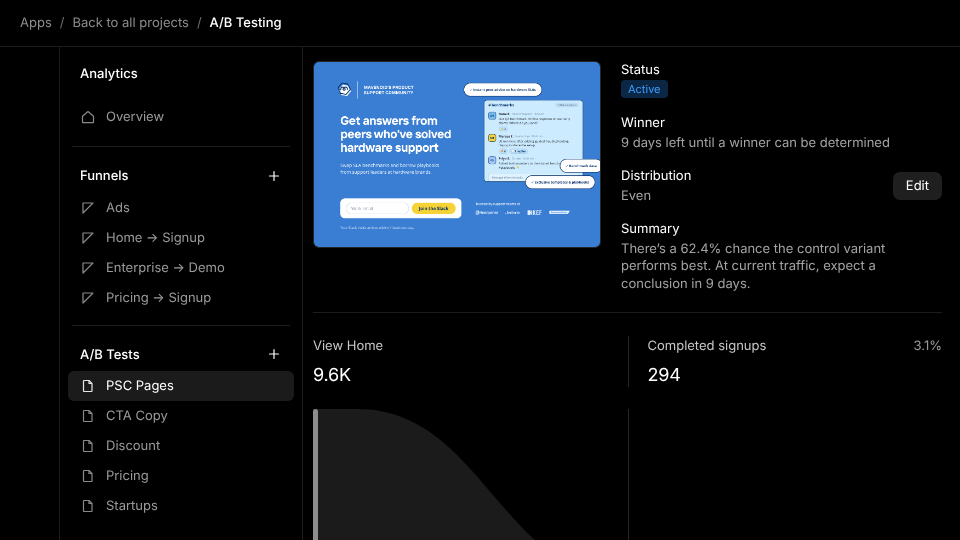
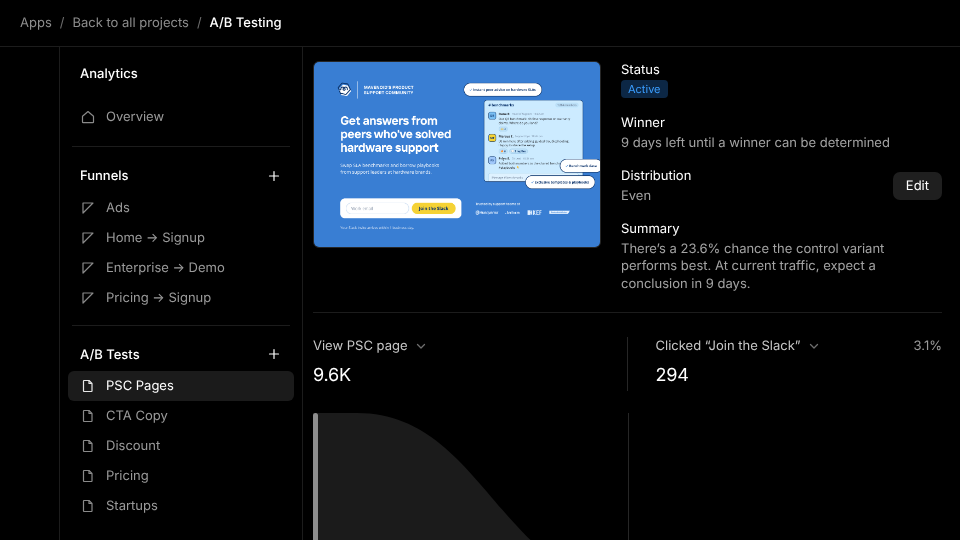
A/B module: interactive funnel and variants, add third PSC variant
- Funnel is contextual: View PSC page -> clicks on each page's real CTA
  (Join the Slack / Book my demo) instead of 'Start for free'
- Control and variant rows select the variant: preview, funnel and summary update
- Funnel steps and chart are clickable and open a per-variant breakdown
- Add Variant B (Figma 155:3796) with its hero render

Claude-Session: https://claude.ai/code/session_01AHeBdxC35NxioYQrNYctji

diff --git a/ab-testing/index.html b/ab-testing/index.html
@@ -90,6 +90,39 @@ hr.rule{border:0;border-top:1px solid var(--line)}
 .tbl td:last-child{padding-right:0}
 .tbl .w1{width:15%}.tbl .w2{width:15%}.tbl .w3{width:19%}.tbl .w4{width:15%}.tbl .w5{width:15%}
 
+
+/* ---------- Interactive funnel + variants ---------- */
+button.fcol{display:block;width:100%;text-align:left;border-radius:6px;padding-bottom:4px;transition:background .15s}
+.fcol.step:hover,.fcol.step[aria-expanded="true"]{background:#0f0f0f}
+.fcol.step:focus-visible,.tbl tbody tr:focus-visible,.bd-row:focus-visible{outline:1px solid #4a4a4a;outline-offset:2px}
+.fcols{margin:0 -8px 0 -8px}
+.fcols::after{display:none}
+.fcols{background:linear-gradient(var(--line-2),var(--line-2)) 50% 0/1px 100% no-repeat}
+.fcol{padding-left:8px!important;padding-right:8px}
+.fcol + .fcol{padding-left:28px!important}
+.chev{width:14px;height:14px;margin-left:6px;color:var(--dim);transition:transform .15s}
+.fcol.step[aria-expanded="true"] .chev{transform:rotate(180deg);color:#fff}
+.fhead .lbl{display:inline-flex;align-items:center}
+.fhead .right{display:inline-flex;align-items:baseline;gap:6px}
+.chart{cursor:pointer}
+.chart:hover .bar{background:#a8a8a8}
+.breakdown{margin-top:18px;border-top:1px solid var(--line);padding-top:6px}
+.breakdown[hidden]{display:none}
+.bd-title{color:var(--muted);font-size:12px;padding:10px 0 4px}
+.bd-row{display:grid;grid-template-columns:150px minmax(0,1fr) 64px;align-items:center;gap:14px;width:100%;height:34px;padding:0 6px;border-radius:6px;color:#8f8f8f}
+.bd-row:hover,.bd-row.sel{color:#fff;background:#0f0f0f}
+.bd-name{display:inline-flex;align-items:center;gap:10px;white-space:nowrap}
+.bd-track{height:6px;border-radius:3px;background:#151515;overflow:hidden}
+.bd-fill{display:block;height:100%;border-radius:3px;transition:width .3s}
+.bd-val{text-align:right;font-variant-numeric:tabular-nums}
+.sub{color:var(--dim);margin-left:10px;font-size:12px}
+.tbl tbody tr.sel .sub{color:var(--muted)}
+.preview img{transition:opacity .25s}
+@media (max-width:820px){
+  .sub,.pre{display:none}
+  .bd-row{grid-template-columns:110px minmax(0,1fr) 52px;gap:10px}
+}
+
 /* ---------- Mobile ---------- */
 .tabs{display:none}
 @media (max-width:820px){
@@ -160,16 +193,13 @@ hr.rule{border:0;border-top:1px solid var(--line)}
 
   <main>
     <section class="top">
-      <div class="preview" aria-live="polite">
-        <img id="img-control" class="on" src="variant-b.png" alt="Control: Mavenoid Product Support Community page, Variant B with community proof and a role field" width="1124" height="675">
-        <img id="img-variant" src="variant-e.png" alt="Variant: Mavenoid Product Support Community page, Variant E with a color-block hero" width="1124" height="715">
-      </div>
+      <div class="preview" id="preview" aria-live="polite"></div>
       <dl class="details">
         <div class="full"><dt>Status</dt><dd><span class="badge">Active</span></dd></div>
         <div class="full"><dt>Winner</dt><dd>9 days left until a winner can be determined</dd></div>
         <div class="dist-copy"><dt>Distribution</dt><dd>Even</dd></div>
         <button class="edit" type="button">Edit</button>
-        <div class="full"><dt>Summary</dt><dd>There’s a 62.4% chance the control variant performs best. At current traffic, expect a conclusion in 9 days.</dd></div>
+        <div class="full"><dt>Summary</dt><dd id="summary"></dd></div>
       </dl>
     </section>
 
@@ -177,16 +207,16 @@ hr.rule{border:0;border-top:1px solid var(--line)}
 
     <section class="funnel" aria-label="Funnel">
       <div class="fcols">
-        <div class="fcol">
-          <div class="fhead"><span>View Home</span></div>
-          <div class="fval">9.6K</div>
-        </div>
-        <div class="fcol">
-          <div class="fhead"><span><span class="l-d">Completed signups</span><span class="l-m">Start for free</span></span><span class="pct">3.1%</span></div>
-          <div class="fval">294</div>
-        </div>
+        <button class="fcol step" type="button" data-step="views" aria-expanded="false" aria-controls="breakdown">
+          <div class="fhead"><span class="lbl">View PSC page<svg class="chev" viewBox="0 0 14 14" fill="none" stroke="currentColor" stroke-width="1.3" stroke-linecap="round" stroke-linejoin="round"><path d="M3.5 5.5 7 9l3.5-3.5"/></svg></span></div>
+          <div class="fval" id="f-views"></div>
+        </button>
+        <button class="fcol step" type="button" data-step="clicks" aria-expanded="false" aria-controls="breakdown">
+          <div class="fhead"><span class="lbl"><span class="pre">Clicked&nbsp;</span><span id="f-label"></span><svg class="chev" viewBox="0 0 14 14" fill="none" stroke="currentColor" stroke-width="1.3" stroke-linecap="round" stroke-linejoin="round"><path d="M3.5 5.5 7 9l3.5-3.5"/></svg></span><span class="pct" id="f-pct"></span></div>
+          <div class="fval" id="f-clicks"></div>
+        </button>
       </div>
-      <div class="chart" role="img" aria-label="Funnel chart: 9.6K home views dropping to 294 signups, 3.1% conversion">
+      <div class="chart" id="chart" role="button" tabindex="0" aria-label="Funnel chart. Activate to compare all variants at this step">
         <div class="bar"></div>
         <svg viewBox="0 0 1000 178" preserveAspectRatio="none" aria-hidden="true">
           <path d="M0 0 H70 C270 0 300 170 500 170 H1000 V178 H0 Z" fill="var(--area)"/>
@@ -195,6 +225,10 @@ hr.rule{border:0;border-top:1px solid var(--line)}
         <div class="dot"></div>
         <div style="position:absolute;left:50%;top:0;bottom:0;width:1px;background:var(--line-2)"></div>
       </div>
+      <div class="breakdown" id="breakdown" hidden>
+        <div class="bd-title" id="bd-title"></div>
+        <div id="bd-rows"></div>
+      </div>
     </section>
 
     <hr class="rule" style="margin-top:20px">
@@ -202,38 +236,107 @@ hr.rule{border:0;border-top:1px solid var(--line)}
     <table class="tbl">
       <colgroup><col><col class="w1"><col class="w2"><col class="w3"><col class="w4"><col class="w5"></colgroup>
       <thead>
-        <tr><th>Variant</th><th>Views</th><th><span class="l-d">Signups</span><span class="l-m">Events</span></th><th>Conversion</th><th>Lift</th><th>Best</th></tr>
+        <tr><th>Variant</th><th>Views</th><th>Clicks</th><th>Conversion</th><th>Lift</th><th>Best</th></tr>
       </thead>
-      <tbody>
-        <tr class="sel" data-variant="control" tabindex="0">
-          <td><span class="v"><i class="dotc" style="background:var(--control)"></i>Control</span></td>
-          <td>9,619</td><td>294</td><td>3.1%</td><td>—</td><td>62.4%</td>
-        </tr>
-        <tr data-variant="variant" tabindex="0">
-          <td><span class="v"><i class="dotc" style="background:var(--variant)"></i>Variant</span></td>
-          <td>9,409</td><td>255</td><td>2.7%</td><td>-11.3%</td><td>37.6%</td>
-        </tr>
-      </tbody>
+      <tbody id="rows"></tbody>
     </table>
   </main>
 </div>
 
 <script>
 (function(){
-  var rows=[].slice.call(document.querySelectorAll('.tbl tbody tr'));
-  var imgs={control:document.getElementById('img-control'),variant:document.getElementById('img-variant')};
-  function pick(r){
-    rows.forEach(function(x){x.classList.toggle('sel',x===r)});
-    var k=r.getAttribute('data-variant');
-    Object.keys(imgs).forEach(function(n){imgs[n].classList.toggle('on',n===k)});
-  }
-  rows.forEach(function(r){
-    r.addEventListener('click',function(){pick(r)});
-    r.addEventListener('keydown',function(e){if(e.key==='Enter'||e.key===' '){e.preventDefault();pick(r)}});
+  // Variants are the Figma PSC pages. CTA labels come from each design.
+  var V=[
+    {id:'control',name:'Control',sub:'Community proof + role field',color:'#8c8c8c',img:'variant-b.png',w:1124,h:675,cta:'Join the Slack',views:9619,clicks:294},
+    {id:'a',name:'Variant A',sub:'Color-block hero',color:'#8b5cf6',img:'variant-e.png',w:1124,h:715,cta:'Book my demo',views:9409,clicks:255},
+    {id:'b',name:'Variant B',sub:'Slack screenshot hero',color:'#3ecf8e',img:'variant-c.png',w:1124,h:606,cta:'Join the Slack',views:9512,clicks:308}
+  ];
+  var $=function(i){return document.getElementById(i)};
+  var fmtK=function(n){return n>=1000?(n/1000).toFixed(1)+'K':String(n)};
+  var fmtN=function(n){return n.toLocaleString('en-US')};
+  var cr=function(v){return v.clicks/v.views};
+
+  // Chance each variant is best: seeded Monte Carlo over each conversion rate (normal approx. to the posterior).
+  (function(){
+    var seed=20230520;function rnd(){seed|=0;seed=seed+0x6D2B79F5|0;var t=Math.imul(seed^seed>>>15,1|seed);t=t+Math.imul(t^t>>>7,61|t)^t;return((t^t>>>14)>>>0)/4294967296}
+    function norm(){return Math.sqrt(-2*Math.log(1-rnd()))*Math.cos(2*Math.PI*rnd())}
+    var wins=V.map(function(){return 0}),N=20000;
+    for(var i=0;i<N;i++){var best=-1,bv=-1;V.forEach(function(v,k){var p=cr(v),x=p+norm()*Math.sqrt(p*(1-p)/v.views);if(x>bv){bv=x;best=k}});wins[best]++}
+    var tot=0;V.forEach(function(v,k){v.best=Math.round(wins[k]/N*1000)/10;tot+=v.best});
+    var lead=wins.indexOf(Math.max.apply(null,wins));V[lead].best=Math.round((V[lead].best+100-tot)*10)/10;
+  })();
+
+  var sel=V[0],step=null;
+
+  // Preview images (one per variant, cross-fade)
+  var pv=$('preview');
+  V.forEach(function(v){
+    var im=new Image();im.src=v.img;im.width=v.w;im.height=v.h;im.id='img-'+v.id;
+    im.alt=v.name+': Mavenoid Product Support Community page, '+v.sub;
+    pv.appendChild(im);
   });
+
+  // Table rows
+  var tb=$('rows');
+  V.forEach(function(v){
+    var lift=v===V[0]?'—':((cr(v)-cr(V[0]))/cr(V[0])*100);
+    var liftTxt=typeof lift==='number'?(lift>0?'+':'')+lift.toFixed(1)+'%':lift;
+    var tr=document.createElement('tr');
+    tr.tabIndex=0;tr.setAttribute('role','button');tr.dataset.id=v.id;
+    tr.innerHTML='<td><span class="v"><i class="dotc" style="background:'+v.color+'"></i>'+v.name+'<span class="sub">'+v.sub+'</span></span></td>'+
+      '<td>'+fmtN(v.views)+'</td><td>'+fmtN(v.clicks)+'</td><td>'+(cr(v)*100).toFixed(1)+'%</td><td>'+liftTxt+'</td><td>'+v.best.toFixed(1)+'%</td>';
+    tr.addEventListener('click',function(){pick(v)});
+    tr.addEventListener('keydown',function(e){if(e.key==='Enter'||e.key===' '){e.preventDefault();pick(v)}});
+    tb.appendChild(tr);
+  });
+
+  function renderBreakdown(){
+    var bd=$('breakdown');
+    if(!step){bd.hidden=true;return}
+    bd.hidden=false;
+    var key=step==='views'?'views':'clicks';
+    $('bd-title').textContent=step==='views'?'Views by variant':'CTA clicks by variant';
+    var max=Math.max.apply(null,V.map(function(v){return v[key]}));
+    var box=$('bd-rows');box.innerHTML='';
+    V.forEach(function(v){
+      var b=document.createElement('button');b.type='button';b.className='bd-row'+(v===sel?' sel':'');
+      var val=step==='views'?fmtN(v.views):fmtN(v.clicks)+' · '+(cr(v)*100).toFixed(1)+'%';
+      b.innerHTML='<span class="bd-name"><i class="dotc" style="background:'+v.color+'"></i>'+v.name+'</span>'+
+        '<span class="bd-track"><span class="bd-fill" style="width:'+(v[key]/max*100)+'%;background:'+v.color+'"></span></span>'+
+        '<span class="bd-val">'+(step==='views'?fmtK(v.views):fmtN(v.clicks))+'</span>';
+      b.title=val;
+      b.addEventListener('click',function(){pick(v)});
+      box.appendChild(b);
+    });
+  }
+
+  function pick(v){
+    sel=v;
+    [].forEach.call(tb.children,function(r){var on=r.dataset.id===v.id;r.classList.toggle('sel',on);r.setAttribute('aria-pressed',on)});
+    V.forEach(function(x){$('img-'+x.id).style.opacity=x===v?1:0});
+    $('f-views').textContent=fmtK(v.views);
+    $('f-clicks').textContent=fmtN(v.clicks);
+    $('f-label').textContent='“'+v.cta+'”';
+    $('f-pct').textContent=(cr(v)*100).toFixed(1)+'%';
+    $('chart').setAttribute('role','button');
+    $('summary').textContent='There’s a '+v.best.toFixed(1)+'% chance '+(v===V[0]?'the control variant':v.name)+' performs best. At current traffic, expect a conclusion in 9 days.';
+    renderBreakdown();
+  }
+
+  function toggleStep(s){step=(step===s)?null:s;
+    [].forEach.call(document.querySelectorAll('.fcol.step'),function(b){b.setAttribute('aria-expanded',b.dataset.step===step)});
+    renderBreakdown();
+  }
+  [].forEach.call(document.querySelectorAll('.fcol.step'),function(b){b.addEventListener('click',function(){toggleStep(b.dataset.step)})});
+  var ch=$('chart');
+  ch.addEventListener('click',function(e){var r=ch.getBoundingClientRect();toggleStep(e.clientX-r.left<r.width/2?'views':'clicks')});
+  ch.addEventListener('keydown',function(e){if(e.key==='Enter'||e.key===' '){e.preventDefault();toggleStep(step==='clicks'?'views':'clicks')}});
+
   // Tabs (mobile) highlight only
   var tabs=[].slice.call(document.querySelectorAll('.tabs button'));
   tabs.forEach(function(t){t.addEventListener('click',function(){tabs.forEach(function(x){x.setAttribute('aria-current',x===t?'true':'false')})})});
+
+  pick(V[0]);
 })();
 </script>
 </body>
